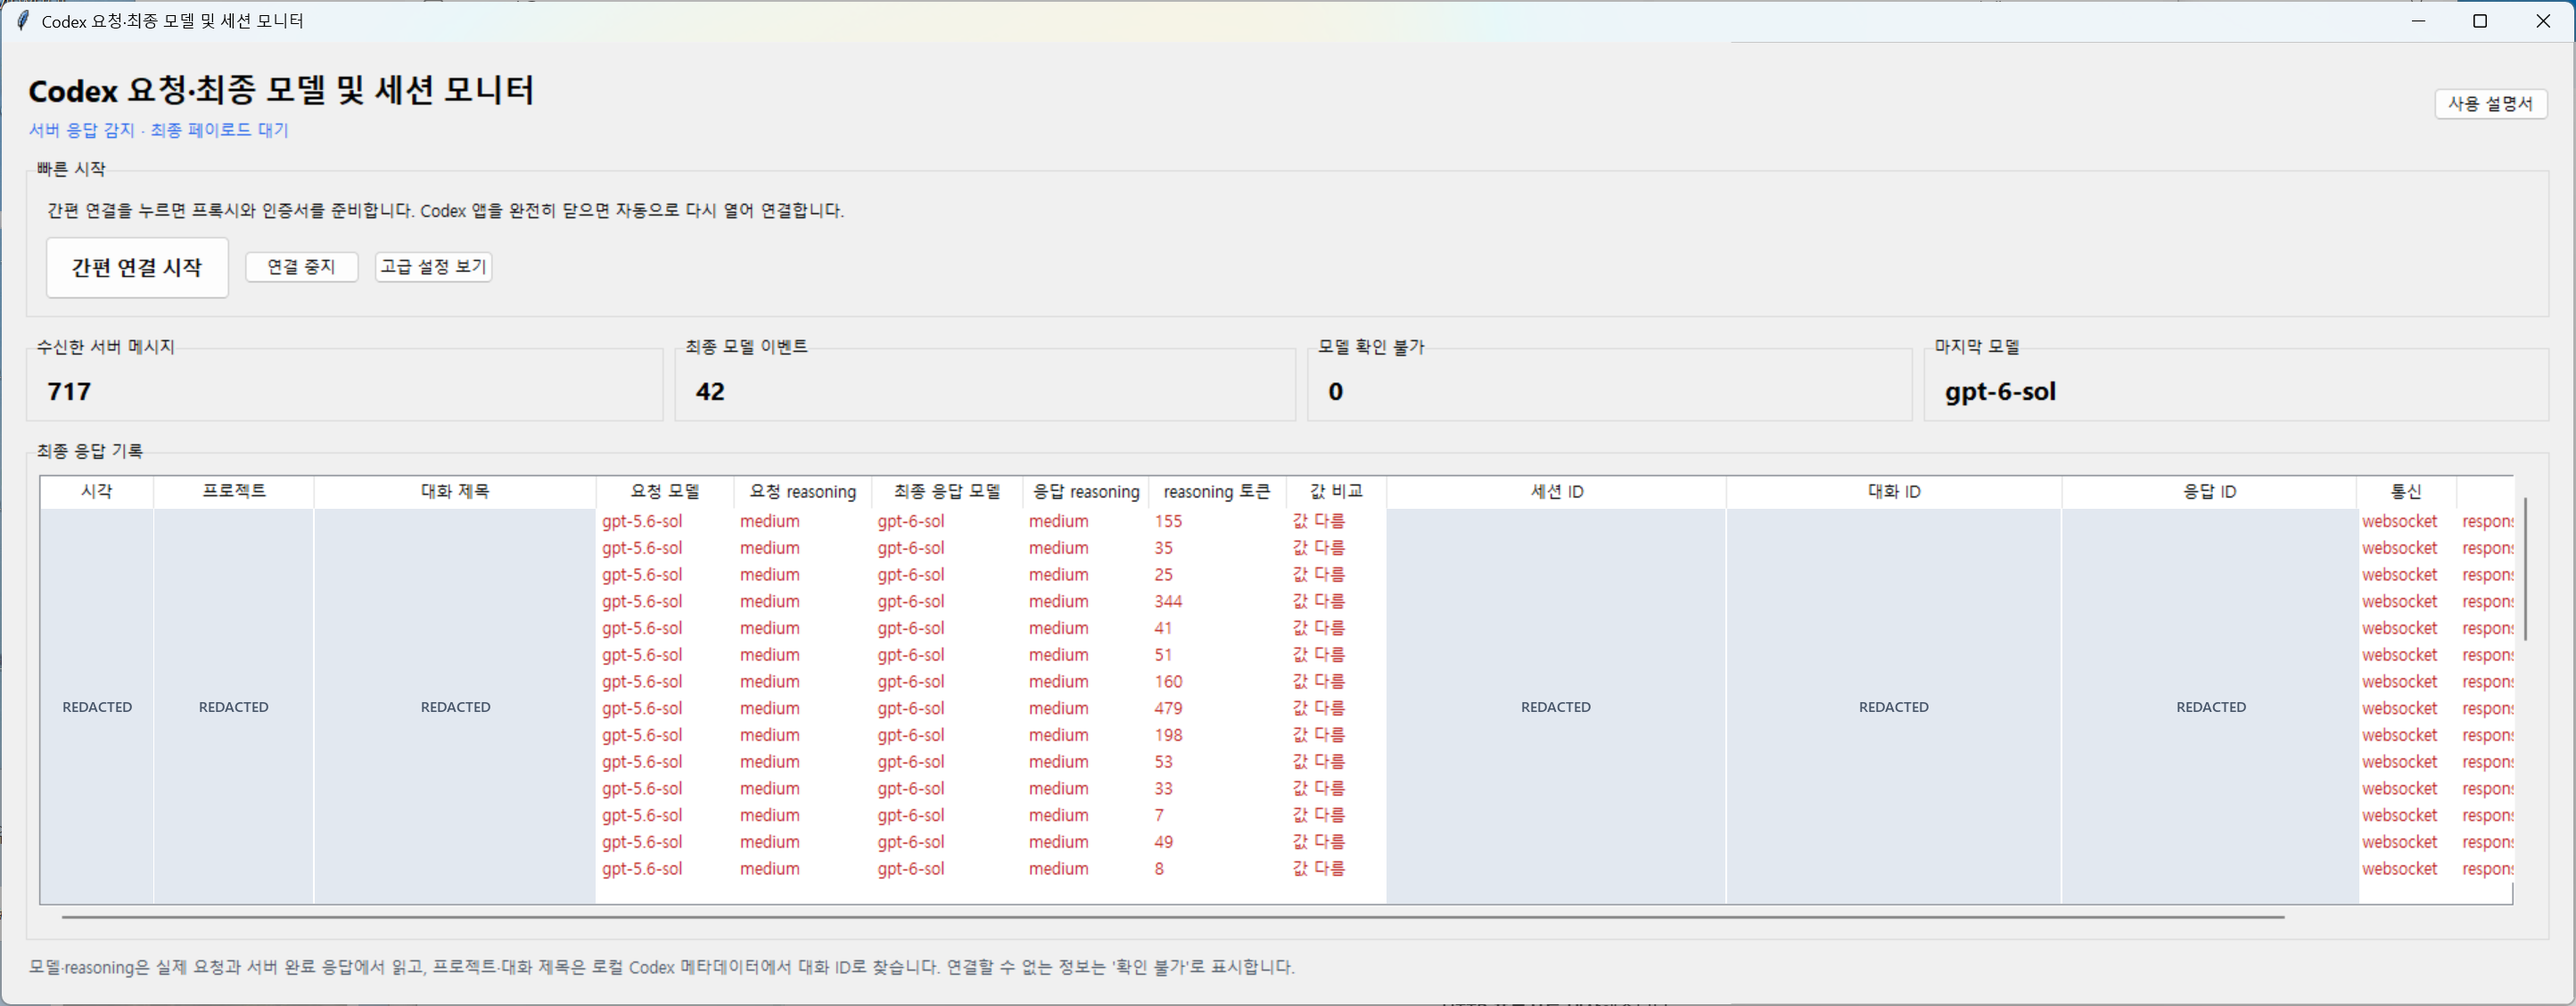
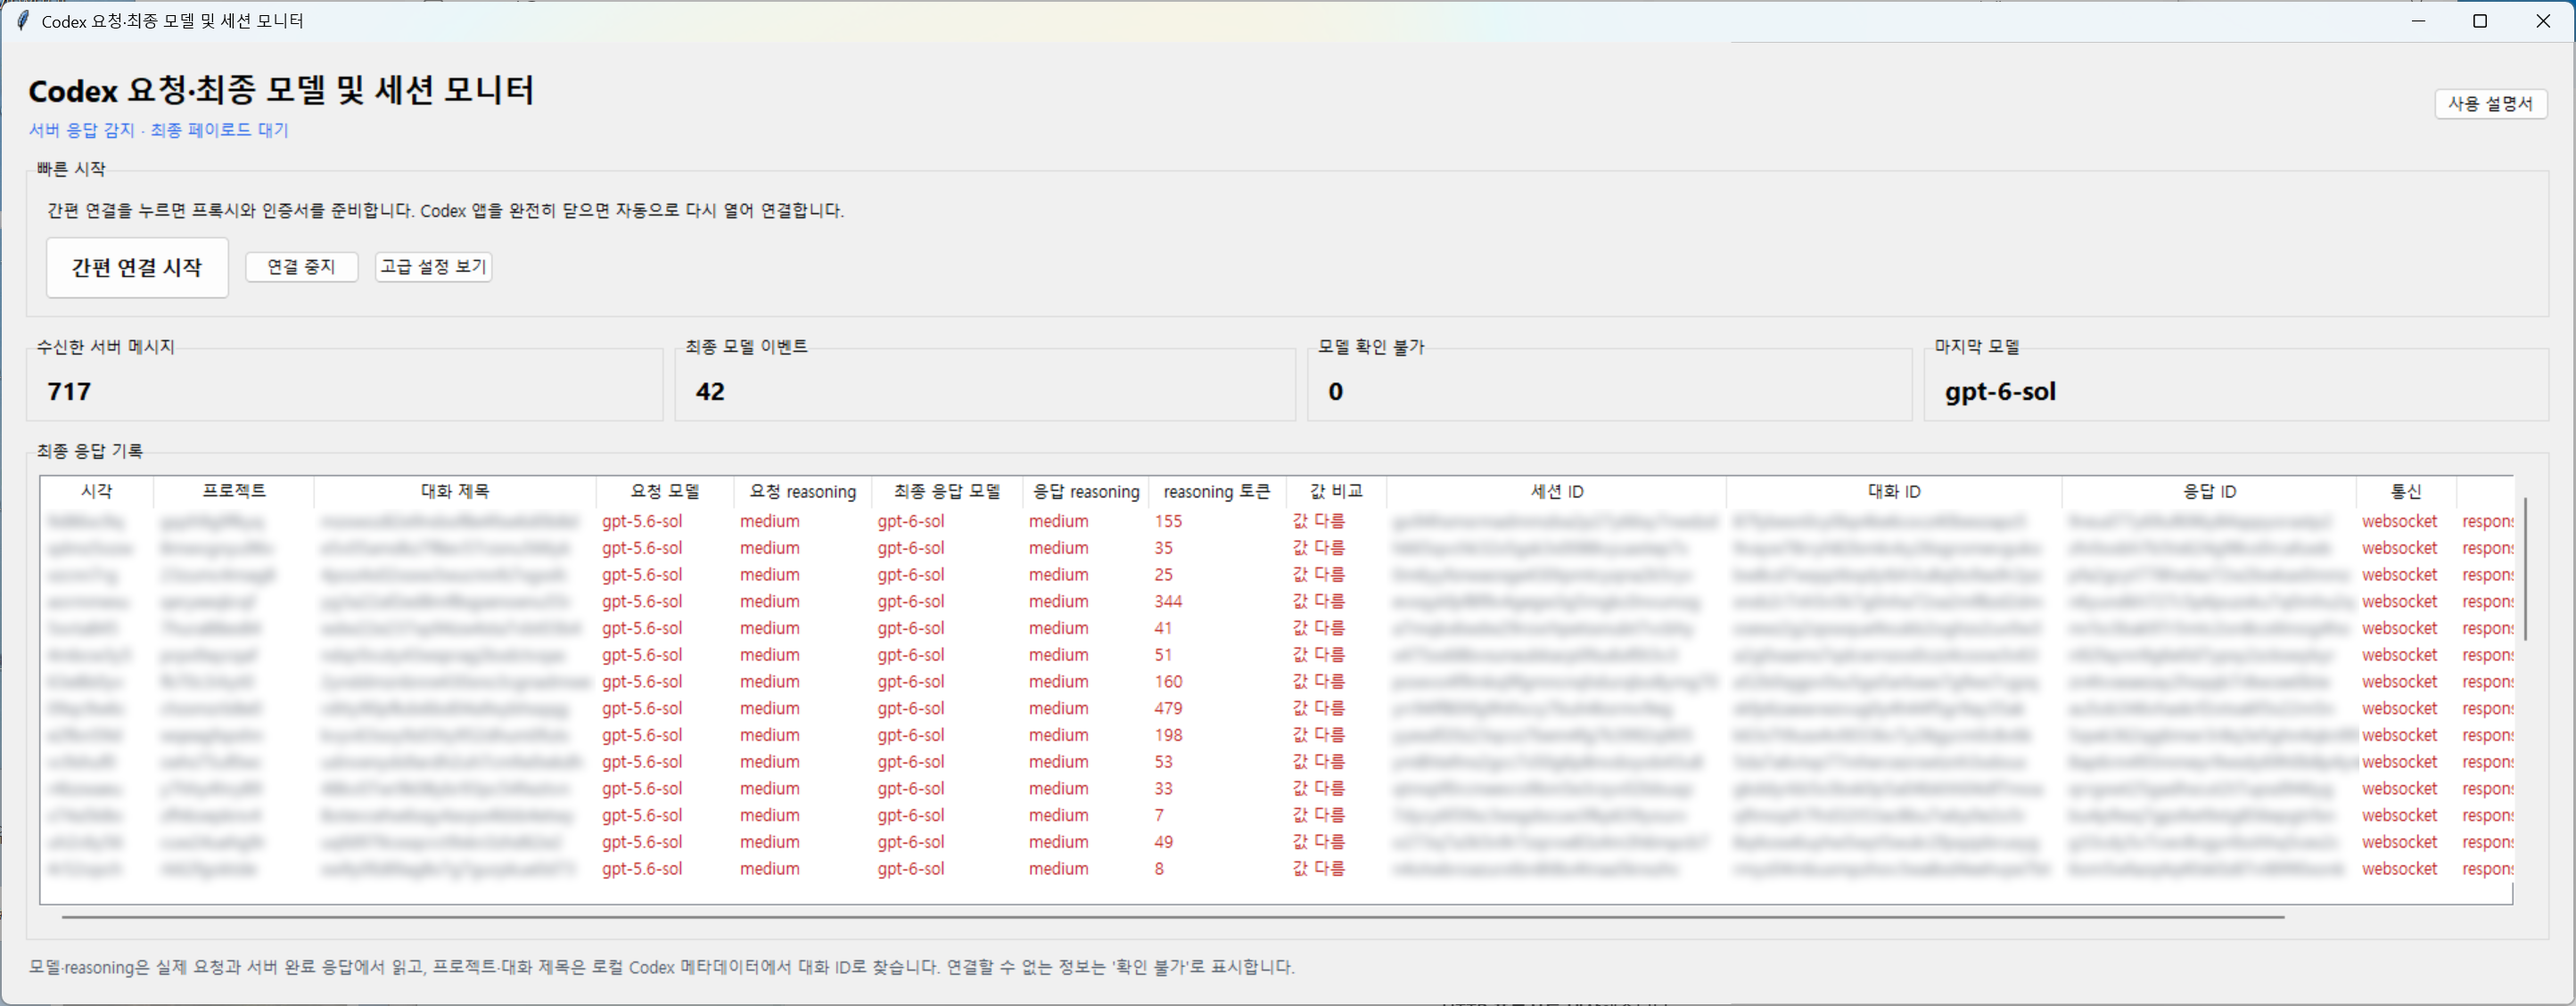
Refresh live preview with soft blur privacy redactions

diff --git a/docs/images/README.md b/docs/images/README.md
@@ -1,20 +1,24 @@
 # Published screenshots / 공개용 스크린샷
 
-These PNGs are actual captures of the running Korean GUI supplied by the project owner. They were edited locally with opaque pixel redactions, without generative image editing.
+These PNGs are actual captures of the running Korean GUI supplied by the project owner. They were edited locally without generative image editing. The overview uses the owner's newer capture; the expanded view retains the earlier capture with the same blur style.
 
 | Image | Redacted values |
 | --- | --- |
 | `live-overview-redacted.png` | Timestamps, project names, conversation titles |
 | `live-details-redacted.png` | Timestamps, project names, conversation titles, session IDs, thread IDs, response IDs |
 
+Private cell pixels were completely replaced with a white background and neutral placeholder text, then Gaussian blur was applied to those placeholders. The blurred shapes contain no original identifying text. This keeps a soft, row-by-row blur appearance without retaining the original private pixels.
+
 The original dimensions are retained. Pixels outside the redacted regions were compared with the originals and are unchanged, including model names, reasoning effort, token counts, counters, and comparison results. Image metadata was removed. Only the redacted copies are included in the repository; the original captures are not included.
 
-The gray `REDACTED` blocks are publication edits, not an application privacy mode. Redact identifying values from your own screenshots or results before sharing them. These captures illustrate values reported in one run; they do not establish which model weights or internal routing produced any response.
+The blurred privacy areas are publication edits, not an application privacy mode. Redact identifying values from your own screenshots or results before sharing them. These captures illustrate observed values; they do not establish which model weights or internal routing produced any response.
 
 ---
 
-프로젝트 소유자가 제공한 실제 한글판 구동 화면입니다. 로컬 코드로 시각·프로젝트명·대화 제목과 화면에 보이는 세션·대화·응답 ID를 불투명하게 가렸습니다. 생성형 이미지 편집은 사용하지 않았습니다.
+프로젝트 소유자가 제공한 실제 한글판 구동 화면입니다. 기본 화면은 새로 제공한 캡처로 교체하고, ID 열이 보이는 이전 상세 화면에도 같은 블러 스타일을 적용했습니다. 생성형 이미지 편집은 사용하지 않았습니다.
+
+로컬 코드로 시각·프로젝트명·대화 제목과 화면에 보이는 세션·대화·응답 ID의 원본 픽셀을 먼저 지웠습니다. 그 자리에 식별 정보가 없는 임시 문자를 배치하고 Gaussian blur를 적용해 행별로 부드럽게 흐려지는 모양을 만들었습니다. 블러 영역에 원래 식별 문자는 남아 있지 않습니다.
 
 원본 크기를 유지하고, 가린 영역 밖의 픽셀이 원본과 같은지 검증했습니다. 모델명·reasoning effort·토큰 수·집계 수치·비교 결과는 변경하지 않았습니다. 이미지 메타데이터는 제거했으며 저장소에는 가림 처리한 사본만 포함합니다.
 
-회색 `REDACTED` 표시는 게시용 이미지 편집이며 앱의 개인정보 모드가 아닙니다. 자신의 화면이나 결과 파일을 공유할 때도 식별값을 가리세요. 캡처에 보이는 값은 해당 실행에서 관찰된 보고값이며 실제 모델 가중치나 내부 라우팅의 증거로 단정할 수 없습니다.
+개인 식별 영역의 블러는 게시용 이미지 편집이며 앱의 개인정보 모드가 아닙니다. 자신의 화면이나 결과 파일을 공유할 때도 식별값을 가리세요. 캡처에 보이는 값은 해당 실행에서 관찰된 보고값이며 실제 모델 가중치나 내부 라우팅의 증거로 단정할 수 없습니다.

diff --git a/README.md b/README.md
@@ -21,9 +21,9 @@ Read model names, reasoning effort, and reasoning token usage from actual networ
 
 ![실제 Codex Model Probe 화면: 요청 모델과 최종 응답 모델, reasoning 및 토큰 수 비교. 개인 식별 영역은 가림. / Actual running Korean GUI with private fields redacted.](docs/images/live-overview-redacted.png)
 
-실제 사용 중 캡처한 **한글판** 화면입니다. 시각·프로젝트·대화 제목과 ID는 공개용 이미지에서 불투명하게 가렸으며, 모델명·reasoning·토큰 수는 원본 그대로입니다. 영문판도 같은 기능을 제공합니다.
+실제 사용 중 캡처한 **한글판** 화면입니다. 시각·프로젝트·대화 제목과 ID는 공개용 이미지에서 익명화한 뒤 블러 처리했으며, 모델명·reasoning·토큰 수는 원본 그대로입니다. 영문판도 같은 기능을 제공합니다.
 
-Actual capture of the **Korean GUI**. Timestamps, project/conversation labels, and IDs are covered in the published images; model names, reasoning, and token counts are unchanged. The English GUI has the same features.
+Actual capture of the **Korean GUI**. Timestamps, project/conversation labels, and IDs are replaced with neutral placeholders and blurred in the published images; model names, reasoning, and token counts are unchanged. The English GUI has the same features.
 
 ## 한눈에 보기 / At a glance
 
@@ -48,9 +48,9 @@ This capture includes differing strings (`gpt-5.6-sol` → `gpt-6-sol`) and matc
 
 ![세션·대화·응답 ID를 가린 실제 상세 화면 / Actual detailed GUI with session, thread, and response IDs redacted.](docs/images/live-details-redacted.png)
 
-가로 스크롤로 ID·통신 방식·최종 페이로드 근거 필드를 볼 수 있습니다. 회색 `REDACTED` 영역은 게시용 이미지에만 적용한 가림 처리입니다.
+가로 스크롤로 ID·통신 방식·최종 페이로드 근거 필드를 볼 수 있습니다. 개인 식별 영역의 블러는 게시용 이미지에만 적용한 가림 처리입니다.
 
-Scroll horizontally to inspect IDs, transport, and the payload evidence field. The gray `REDACTED` blocks were added only to these published screenshots.
+Scroll horizontally to inspect IDs, transport, and the payload evidence field. The blurred privacy areas were added only to these published screenshots.
 
 </details>
 

diff --git a/README.en.md b/README.en.md
@@ -8,7 +8,7 @@ This Windows tool continuously displays the **model and reasoning effort request
 
 ![Actual running GUI comparing requested and final response model, reasoning effort, and token usage, with private fields redacted.](docs/images/live-overview-redacted.png)
 
-An actual capture of the **Korean GUI**; the English edition provides the same features with English labels. **Timestamps, project/conversation labels, and IDs are covered with opaque blocks in the published images.** Pixels outside those blocks, including model names, reasoning, and token counts, are unchanged. The application itself displays the original values when available.
+An actual capture of the **Korean GUI**; the English edition provides the same features with English labels. **Timestamps, project/conversation labels, and IDs are replaced with neutral placeholders and blurred in the published images.** Pixels outside those areas, including model names, reasoning, and token counts, are unchanged. The application itself displays the original values when available.
 
 - **Compare models:** View model strings from the actual request and completed response side by side. Different strings are highlighted as **Values differ**.
 - **Compare reasoning:** Inspect requested and reported effort, together with server-reported reasoning token usage.
@@ -50,7 +50,7 @@ Click **Show advanced settings** for manual proxy controls, port/host/result-fil
 
 ![Actual expanded GUI with timestamps, project and conversation labels, session IDs, thread IDs, and response IDs redacted.](docs/images/live-details-redacted.png)
 
-Scroll horizontally to inspect IDs, transport, and the exact payload evidence field. `REDACTED` labels were added only to these published screenshots.
+Scroll horizontally to inspect IDs, transport, and the exact payload evidence field. The blurred privacy areas were added only to these published screenshots.
 
 | Column | Source and meaning |
 | --- | --- |

diff --git a/README.ko.md b/README.ko.md
@@ -8,7 +8,7 @@ Codex가 **실제 통신에서 요청한 모델과 reasoning effort**, 서버의
 
 ![요청 모델과 서버 완료 응답 모델, reasoning effort 및 토큰 수를 비교하는 실제 구동 화면. 개인 식별 영역은 가림.](docs/images/live-overview-redacted.png)
 
-실제 한글판 사용 화면입니다. **시각·프로젝트명·대화 제목과 ID는 공개용 이미지에서 불투명하게 가렸습니다.** 모델명·reasoning·토큰 수를 포함한 가림 영역 밖의 픽셀은 원본 그대로입니다. 프로그램 자체에는 확인 가능한 원래 값이 표시됩니다.
+실제 한글판 사용 화면입니다. **시각·프로젝트명·대화 제목과 ID는 공개용 이미지에서 익명화한 뒤 블러 처리했습니다.** 모델명·reasoning·토큰 수를 포함한 가림 영역 밖의 픽셀은 원본 그대로입니다. 프로그램 자체에는 확인 가능한 원래 값이 표시됩니다.
 
 - **모델 비교:** 실제 요청과 완료 응답의 모델 문자열을 나란히 표시하고, 다르면 `값 다름`으로 강조합니다.
 - **Reasoning 비교:** 요청·응답 effort와 서버가 보고한 reasoning 토큰 수를 함께 확인합니다.
@@ -50,7 +50,7 @@ Windows 10/11과 Windows Codex 데스크톱 앱이 필요합니다. **Python 설
 
 ![ID 열까지 펼친 실제 구동 화면. 시각·프로젝트·대화 제목·세션 ID·대화 ID·응답 ID는 가림.](docs/images/live-details-redacted.png)
 
-가로 스크롤로 오른쪽의 ID, 통신 방식, 최종 페이로드 근거 필드를 확인할 수 있습니다. `REDACTED`는 이 게시용 이미지에만 적용한 가림 표시입니다.
+가로 스크롤로 오른쪽의 ID, 통신 방식, 최종 페이로드 근거 필드를 확인할 수 있습니다. 개인 식별 영역의 블러는 이 게시용 이미지에만 적용한 가림 처리입니다.
 
 | 열 | 출처와 의미 |
 | --- | --- |
